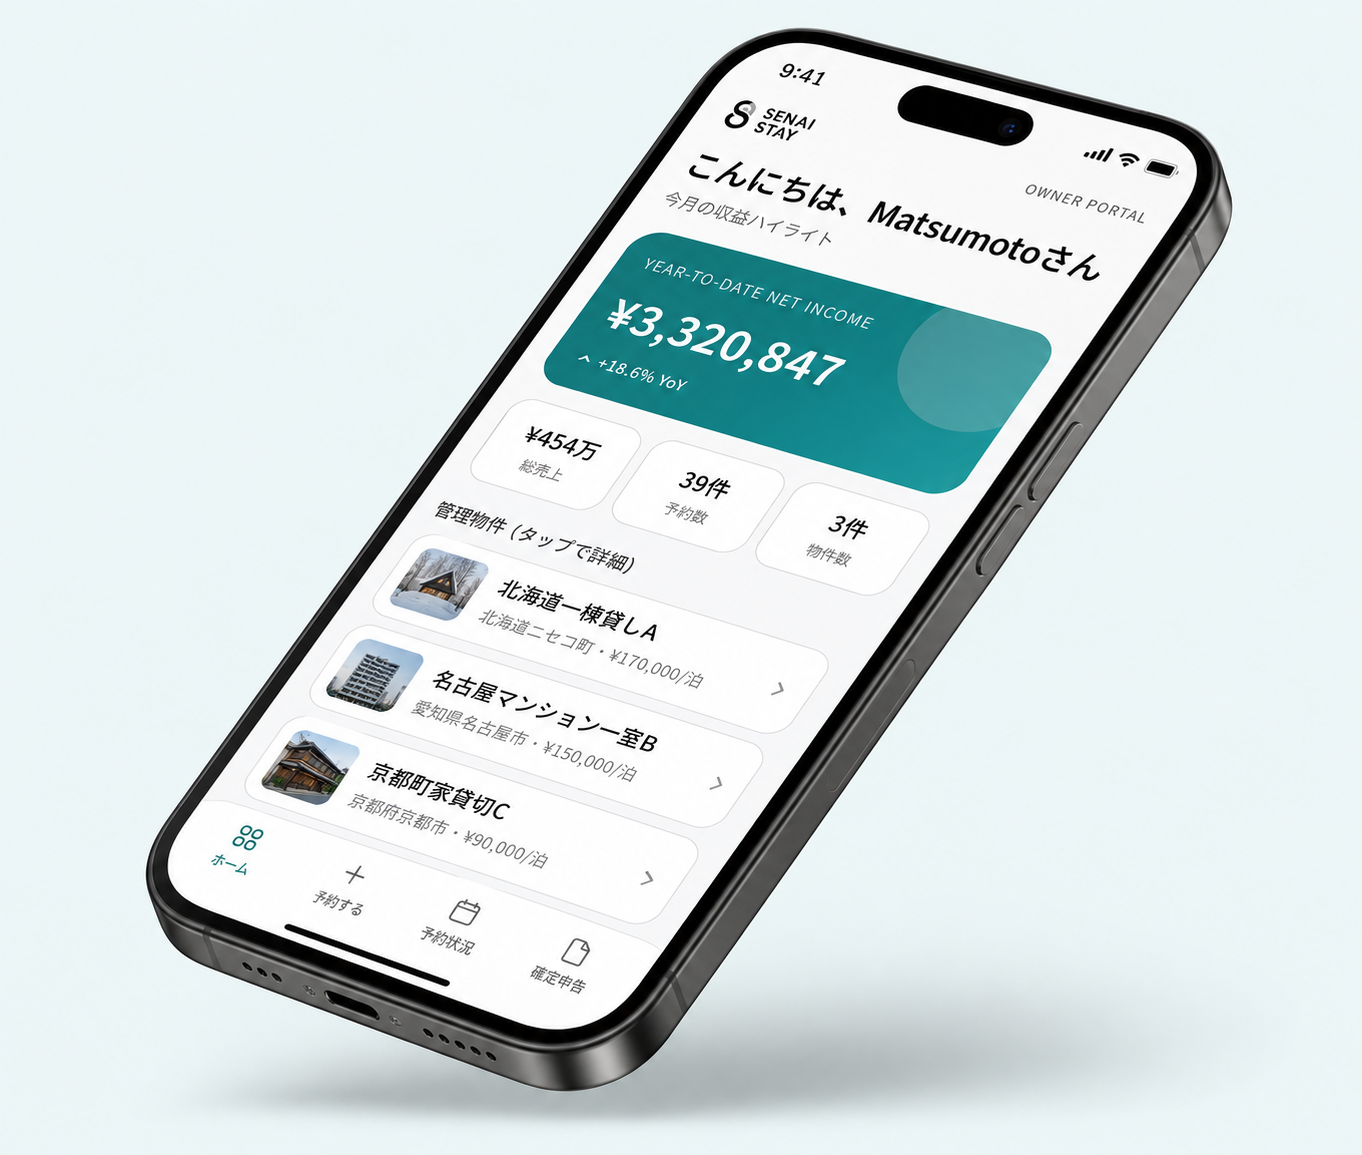
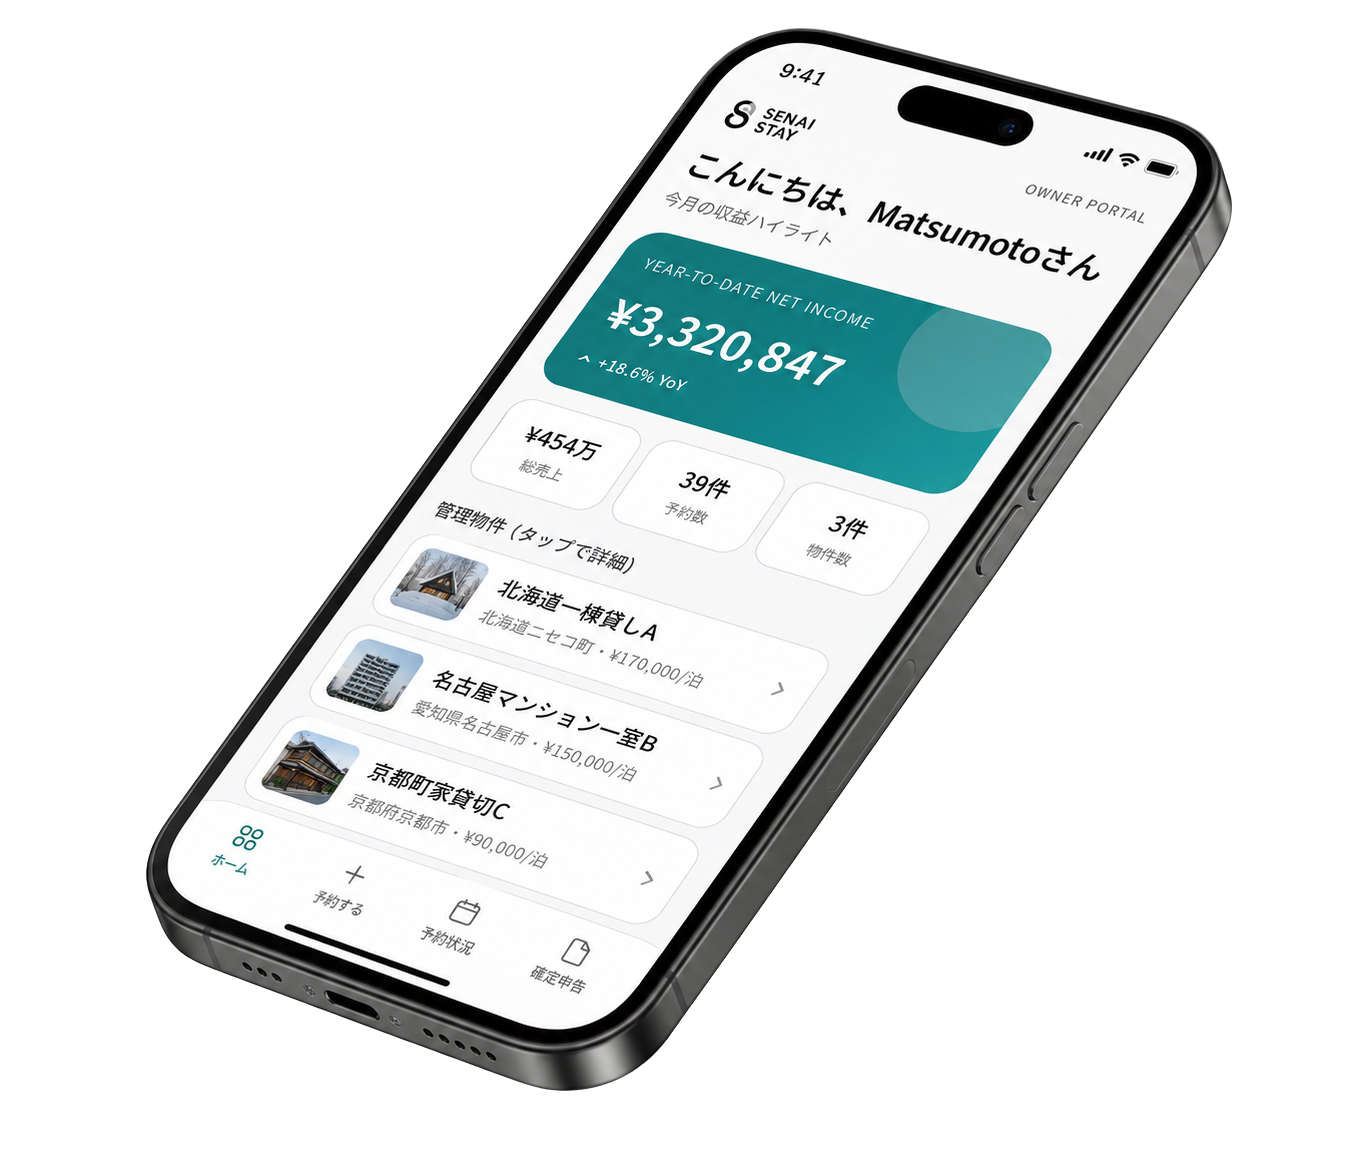
feat(image): switch to transparent-bg dashboard-mockup + drop mask
User feedback: previous image had distracting background gradient.
Replaced with the transparent-background variant (1362x1155, same crisp text).

Removed mask-image radial-gradient on /switch/portal Hero (was needed when
the image had its own background; now redundant — drop-shadow-2xl provides
soft edges naturally). control + kotekote keep their existing styling.

Cache-bust updated: ?v=gpt55 → ?v=v3 (force browser to refetch).

Same image pushed to sekai-stay-lp (commit 1c7faee).

Changed region(s): [[0.1233, 0.8104, 0.9251, 0.9974]]

diff --git a/components/switch/SwitchHeroPortal.tsx b/components/switch/SwitchHeroPortal.tsx
@@ -110,15 +110,11 @@ export default function SwitchHeroPortal() {
                     className="absolute inset-0 bg-switch-teal-bright/25 blur-[120px] rounded-full scale-95 pointer-events-none"
                     aria-hidden
                   />
-                  {/* 横長 iPhone 傾き構図 (1362x1155) — 文字シャープ */}
+                  {/* 横長 iPhone 傾き構図 (1362x1155, 透過背景) — mask 不要 */}
                   <img
-                    src="/images/switch/dashboard-mockup.png?v=gpt55"
+                    src="/images/switch/dashboard-mockup.png?v=v3"
                     alt="SEKAI STAY オーナーポータル ダッシュボード"
                     className="relative w-[88%] max-w-[420px] sm:max-w-[560px] lg:max-w-[680px] select-none pointer-events-none drop-shadow-2xl z-10"
-                    style={{
-                      maskImage: "radial-gradient(ellipse 80% 90% at center, #000 65%, transparent 99%)",
-                      WebkitMaskImage: "radial-gradient(ellipse 80% 90% at center, #000 65%, transparent 99%)",
-                    }}
                   />
                   {/* 浮き出るデータラベル — リアルタイム感の演出 */}
                   <FloatingDataChip className="absolute top-2 left-0 sm:top-6 lg:top-10 lg:left-[-2%] z-20" label="ピーク売上" value="+18%" trend="up" />

diff --git a/components/switch/SwitchHero.tsx b/components/switch/SwitchHero.tsx
@@ -181,7 +181,7 @@ export default function SwitchHero() {
 
                 {/* iPhoneモックアップ（さらに拡大） */}
                 <img
-                  src="/images/switch/dashboard-mockup.png?v=gpt55"
+                  src="/images/switch/dashboard-mockup.png?v=v3"
                   alt="SEKAI STAY オーナーポータル ダッシュボード"
                   className="relative w-[82%] max-w-[320px] sm:max-w-md lg:max-w-[600px] select-none pointer-events-none drop-shadow-2xl z-10"
                   style={{

diff --git a/components/switch/SwitchHeroKotekote.tsx b/components/switch/SwitchHeroKotekote.tsx
@@ -119,7 +119,7 @@ export default function SwitchHeroKotekote() {
                 <div className="relative w-full">
                   <div className="absolute inset-0 bg-switch-teal-bright/15 blur-[80px] rounded-full scale-90 pointer-events-none" aria-hidden />
                   <img
-                    src="/images/switch/dashboard-mockup.png?v=gpt55"
+                    src="/images/switch/dashboard-mockup.png?v=v3"
                     alt="SEKAI STAY オーナーポータル"
                     className="relative w-full max-w-[340px] mx-auto select-none pointer-events-none drop-shadow-2xl"
                     style={{